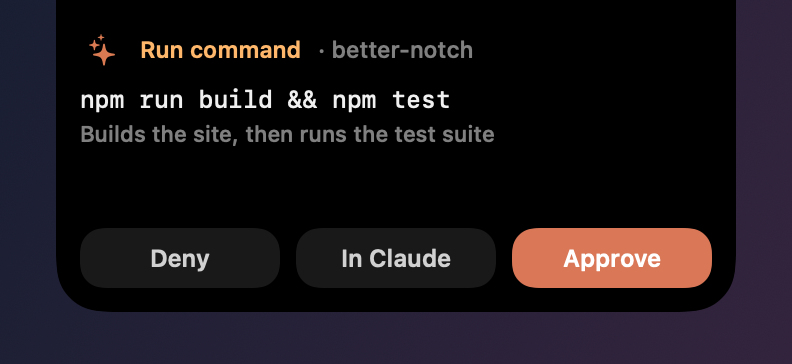
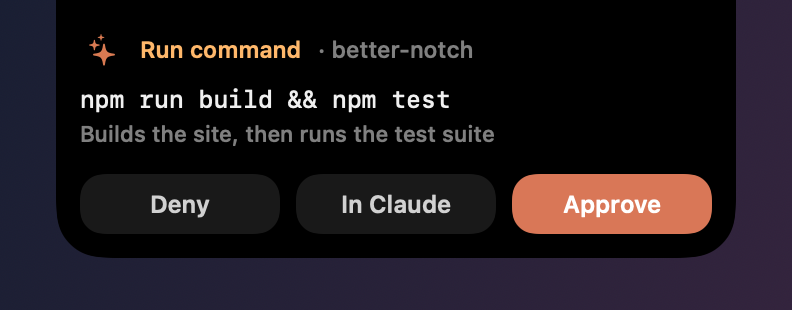
Fit agent alerts to their text, top-align them, and add a layout check
Alerts were centered in the taller island once room was kept below the camera, so
their buttons sat 3 pt from the bottom. scripts/layout-check.sh now renders sample
alerts in the real island and fails on wrong gaps.

diff --git a/Notchly/Debug/LayoutCheck.swift b/Notchly/Debug/LayoutCheck.swift
@@ -1,0 +1,139 @@
+//
+//  LayoutCheck.swift
+//  BetterNotch
+//
+//  Debug builds only: `BetterNotch -layoutCheck <folder>` shows sample agent alerts in the
+//  real island window, saves each as a PNG, measures the gaps around its buttons, writes
+//  report.txt and quits. The README renderer draws views outside the island, so it cannot
+//  catch spacing that only goes wrong inside the real island.
+//
+
+#if DEBUG
+import AppKit
+import SwiftUI
+
+@MainActor
+enum LayoutCheck {
+    static var outputDirectory: URL? {
+        let arguments = ProcessInfo.processInfo.arguments
+        guard let index = arguments.firstIndex(of: "-layoutCheck"), index + 1 < arguments.count else { return nil }
+        return URL(fileURLWithPath: arguments[index + 1], isDirectory: true)
+    }
+
+    static func run(environment: AppEnvironment, window: @escaping () -> NSWindow?, to directory: URL) {
+        try? FileManager.default.createDirectory(at: directory, withIntermediateDirectories: true)
+        Task { @MainActor in
+            try? await Task.sleep(for: .seconds(3))
+            var lines: [String] = []
+            var failed = false
+            for (name, event) in samples() {
+                environment.agentEventManager.debugShow(event)
+                try? await Task.sleep(for: .seconds(2))
+                guard let view = window()?.contentView,
+                      let rep = view.bitmapImageRepForCachingDisplay(in: view.bounds) else {
+                    lines.append("\(name): FAIL no island window")
+                    failed = true
+                    continue
+                }
+                view.cacheDisplay(in: view.bounds, to: rep)
+                try? rep.representation(using: .png, properties: [:])?
+                    .write(to: directory.appendingPathComponent("\(name).png"))
+                let result = measure(rep, scale: CGFloat(rep.pixelsWide) / view.bounds.width)
+                failed = failed || !result.passed
+                lines.append("\(name): \(result.text)")
+                environment.agentEventManager.dismissCurrentEvent()
+                try? await Task.sleep(for: .seconds(1.5))
+            }
+            lines.append(failed ? "RESULT: FAIL" : "RESULT: PASS")
+            try? lines.joined(separator: "\n").appending("\n")
+                .write(to: directory.appendingPathComponent("report.txt"), atomically: true, encoding: .utf8)
+            exit(failed ? 1 : 0)
+        }
+    }
+
+    private static func samples() -> [(String, AgentEvent)] {
+        let now = Date()
+        let open = GlanceButton(title: "Open session", systemImage: "arrow.up.forward.app",
+                                isPrimary: true, action: .openSession(id: "s1", source: "claude"))
+        func approval(detail: String?) -> AgentApprovalRequest {
+            AgentApprovalRequest(
+                id: UUID().uuidString, source: "codex", sessionID: "s1", toolName: "mcp__codebase_memory_mcp__index_repository",
+                toolLabel: "codebase_memory_mcp tool", summary: "index repository", detail: detail,
+                project: "memberships", receivedAt: now, deadline: now.addingTimeInterval(60)
+            )
+        }
+        return [
+            ("finished-one-line", AgentEvent(id: UUID(), source: "codex", kind: .completed, title: "Task completed",
+                                             message: nil, ttl: 30, createdAt: now, detail: "Copyable Markdown review",
+                                             buttons: [open], sessionID: "s1")),
+            ("finished-two-lines", AgentEvent(id: UUID(), source: "claude", kind: .completed, title: "Task completed",
+                                              message: nil, ttl: 30, createdAt: now,
+                                              detail: "Both issues are fixed in build 81, which is now running on this Mac.",
+                                              buttons: [open], sessionID: "s1")),
+            ("question", AgentEvent(id: UUID(), source: "claude", kind: .waiting, title: "Claude asked a question",
+                                    message: nil, ttl: 30, createdAt: now,
+                                    detail: "Should the usage bars refresh every 5 minutes or every 2?",
+                                    buttons: [open], sessionID: "s2")),
+            ("approval", AgentEvent(id: UUID(), source: "codex", kind: .accessRequest, title: "Needs approval",
+                                    message: nil, ttl: 30, createdAt: now, approval: approval(detail: nil))),
+            ("approval-detail", AgentEvent(id: UUID(), source: "codex", kind: .accessRequest, title: "Needs approval",
+                                           message: nil, ttl: 30, createdAt: now,
+                                           approval: approval(detail: "Indexes the memberships app for code search")))
+        ]
+    }
+
+    /// The island is the opaque shape at the top of the transparent window. Its buttons are
+    /// the lowest non-black pixels in it; they should sit `edgeInset` from the bottom edge and
+    /// from both side edges.
+    private static func measure(_ rep: NSBitmapImageRep, scale: CGFloat) -> (passed: Bool, text: String) {
+        func pixel(_ x: Int, _ y: Int) -> (alpha: CGFloat, bright: CGFloat) {
+            guard let color = rep.colorAt(x: x, y: y)?.usingColorSpace(.deviceRGB) else { return (0, 0) }
+            return (color.alphaComponent, max(color.redComponent, color.greenComponent, color.blueComponent))
+        }
+        let centerX = rep.pixelsWide / 2
+        var islandBottom = 0
+        for y in 0..<rep.pixelsHigh where pixel(centerX, y).alpha > 0.5 { islandBottom = y }
+        // Lowest content row: anything clearly brighter than the island's black.
+        var contentBottom = 0
+        var contentTop = Int.max
+        for y in 0..<(islandBottom - 2) {
+            for x in stride(from: 0, to: rep.pixelsWide, by: 2) where pixel(x, y).alpha > 0.5 && pixel(x, y).bright > 0.25 {
+                contentBottom = max(contentBottom, y)
+                contentTop = min(contentTop, y)
+            }
+        }
+        // Mid-button, clear of its rounded corners.
+        let rowY = max(0, contentBottom - Int(IslandMetrics.buttonHeight / 2 * scale))
+        var islandLeft = 0, islandRight = 0, buttonLeft = Int.max, buttonRight = 0
+        for x in 0..<rep.pixelsWide {
+            let p = pixel(x, rowY)
+            if p.alpha > 0.5 {
+                if islandLeft == 0 { islandLeft = x }
+                islandRight = x
+                if p.bright > 0.07 { buttonLeft = min(buttonLeft, x); buttonRight = max(buttonRight, x) }
+            }
+        }
+        // Text-to-button gap: climb out of the buttons, then up to the last text row.
+        func rowHasContent(_ y: Int) -> Bool {
+            stride(from: 0, to: rep.pixelsWide, by: 2).contains { pixel($0, y).alpha > 0.5 && pixel($0, y).bright > 0.25 }
+        }
+        var buttonTop = contentBottom
+        while buttonTop > 0 && rowHasContent(buttonTop - 1) { buttonTop -= 1 }
+        var textBottom = buttonTop - 1
+        while textBottom > 0 && !rowHasContent(textBottom) { textBottom -= 1 }
+        let textGap = CGFloat(buttonTop - textBottom) / scale
+        let bottomGap = CGFloat(islandBottom - contentBottom) / scale
+        let leftGap = CGFloat(buttonLeft - islandLeft) / scale
+        let rightGap = CGFloat(islandRight - buttonRight) / scale
+        let height = CGFloat(islandBottom + 1) / scale
+        let expected = IslandMetrics.edgeInset
+        // Glyphs sit above their line box, so the visible gap runs a few points over the set one.
+        let textGapRange = AgentActivityView.textToButtonsGap...(AgentActivityView.textToButtonsGap + 8)
+        let passed = [bottomGap, leftGap, rightGap].allSatisfy { abs($0 - expected) <= 1.5 }
+            && textGapRange.contains(textGap)
+        let text = String(format: "%@ height %.0f, bottom gap %.1f, sides %.1f / %.1f (want %.0f), text to buttons %.1f",
+                          passed ? "PASS" : "FAIL", height, bottomGap, leftGap, rightGap, expected, textGap)
+        return (passed, text)
+    }
+}
+#endif

diff --git a/Notchly/Views/Island/Agent/AgentActivityView.swift b/Notchly/Views/Island/Agent/AgentActivityView.swift
@@ -25,22 +25,48 @@ struct AgentActivityView: View {
         screenHasNotch ? max(0, closedHeight - headerTop) : 0
     }
 
-    /// Island content height for an event, or nil to use the default preview height.
-    static func contentHeight(for event: AgentEvent?) -> CGFloat? {
+    /// Space between an alert's text and its buttons.
+    static let textToButtonsGap: CGFloat = 14
+
+    /// Island content height for an event at a given island width, or nil to use the
+    /// default preview height. Alerts with buttons fit their text, so a one-line message
+    /// does not leave a gap above the buttons.
+    static func contentHeight(for event: AgentEvent?, width: CGFloat) -> CGFloat? {
         guard let event else { return nil }
+        let textWidth = width - IslandMetrics.edgeInset * 2
+        // Header and buttons: content offset, top padding, header row and the gap below it,
+        // then the buttons and the inset under them.
+        let chrome = contentTopOffset + 4 + 22 + 6 + textToButtonsGap
+            + IslandMetrics.buttonHeight + IslandMetrics.edgeInset
         if let approval = event.approval {
-            return approval.detail == nil ? 140 : 156
+            var text = textHeight(approval.summary, font: .monospacedSystemFont(ofSize: 12, weight: .medium),
+                                  width: textWidth, maxLines: 2)
+            if let detail = approval.detail {
+                text += 3 + textHeight(detail, font: .systemFont(ofSize: 11, weight: .medium), width: textWidth, maxLines: 1)
+            }
+            return (chrome + text).rounded(.up)
         }
         if !event.batteryParts.isEmpty || event.progressKey != nil {
             return 92
         }
-        if event.detail != nil && !event.buttons.isEmpty {
-            return 140
+        if let detail = event.detail, !event.buttons.isEmpty {
+            let text = textHeight(detail, font: .systemFont(ofSize: 13, weight: .semibold), width: textWidth, maxLines: 2)
+            return (chrome + text).rounded(.up)
         }
         if event.detail != nil {
             return 98
         }
         return nil
+    }
+
+    /// Height of text wrapped to a width, capped at a number of lines.
+    private static func textHeight(_ string: String, font: NSFont, width: CGFloat, maxLines: Int) -> CGFloat {
+        let lineHeight = NSLayoutManager().defaultLineHeight(for: font)
+        let bounds = NSAttributedString(string: string, attributes: [.font: font]).boundingRect(
+            with: NSSize(width: width, height: .greatestFiniteMagnitude),
+            options: [.usesLineFragmentOrigin, .usesFontLeading]
+        )
+        return min(max(bounds.height, lineHeight), lineHeight * CGFloat(maxLines)).rounded(.up)
     }
 
     var body: some View {
@@ -221,7 +247,7 @@ private struct AgentApprovalContent: View {
                     .padding(.top, 3)
             }
 
-            Spacer(minLength: 10)
+            Spacer(minLength: 6)
 
             HStack(spacing: 8) {
                 decisionButton("Deny", isPrimary: false, decision: .deny)
@@ -494,7 +520,7 @@ private struct GlanceWithButtons: View {
                 .fixedSize(horizontal: false, vertical: true)
                 .padding(.top, 6)
 
-            Spacer(minLength: 10)
+            Spacer(minLength: 6)
 
             HStack(spacing: 8) {
                 ForEach(event.buttons) { button in

diff --git a/Notchly/App/AppDelegate.swift b/Notchly/App/AppDelegate.swift
@@ -11,7 +11,8 @@ import AppKit
 final class AppDelegate: NSObject, NSApplicationDelegate {
     // The rename migration must run before any manager reads its settings.
     private let environment: AppEnvironment = {
-        if !ProcessInfo.processInfo.arguments.contains("-renderReadmeImages") {
+        let arguments = ProcessInfo.processInfo.arguments
+        if !arguments.contains("-renderReadmeImages") && !arguments.contains("-layoutCheck") {
             LegacyIdentityMigration.runIfNeeded()
         }
         return AppEnvironment()
@@ -101,6 +102,14 @@ final class AppDelegate: NSObject, NSApplicationDelegate {
             }
             self.startupTask = nil
         }
+
+        #if DEBUG
+        if let directory = LayoutCheck.outputDirectory {
+            LayoutCheck.run(environment: environment, window: { [weak self] in
+                self?.overlayController.debugIslandWindow
+            }, to: directory)
+        }
+        #endif
     }
 
     func applicationWillTerminate(_ notification: Notification) {

diff --git a/Notchly/Views/Island/Logic/ContentView+Computed.swift b/Notchly/Views/Island/Logic/ContentView+Computed.swift
@@ -30,7 +30,10 @@ extension ContentView {
             islandWidth: effectiveIslandWidth,
             allowsCompactBaseWidth: musicStartUsesIdleWidth,
             idleWidthOverride: configuredIdleIslandWidth,
-            agentContentHeight: AgentActivityView.contentHeight(for: activeAgentEvent),
+            agentContentHeight: AgentActivityView.contentHeight(
+                for: activeAgentEvent,
+                width: IslandLayout.baseWidth(islandWidth: effectiveIslandWidth, allowsCompact: musicStartUsesIdleWidth)
+            ),
             agentTopClearance: agentTopClearance,
             openedExtraHeight: showsExtrasPanel ? extrasPanelHeight + ExtrasPanelView.gapBelowTopSection : 0,
             wingsTucked: tucksWings,

diff --git a/Notchly/Debug/ReadmeImageRenderer.swift b/Notchly/Debug/ReadmeImageRenderer.swift
@@ -245,7 +245,7 @@ private struct NoticeIsland: View {
     let event: AgentEvent
 
     var body: some View {
-        let size = CGSize(width: 340, height: AgentActivityView.contentHeight(for: event) ?? 68)
+        let size = CGSize(width: 340, height: AgentActivityView.contentHeight(for: event, width: 340) ?? 68)
         ZStack(alignment: .top) {
             UnevenRoundedRectangle(bottomLeadingRadius: IslandMetrics.noticeRadius, bottomTrailingRadius: IslandMetrics.noticeRadius)
                 .fill(Color.black)

diff --git a/Notchly/Views/Island/Logic/ContentView+Agent.swift b/Notchly/Views/Island/Logic/ContentView+Agent.swift
@@ -71,7 +71,7 @@ extension ContentView {
                         )
                     }
                 }
-                .frame(width: layout.agentPreviewSize.width + layout.cornerRadius * 2, height: layout.agentPreviewSize.height)
+                .frame(width: layout.agentPreviewSize.width + layout.cornerRadius * 2, height: layout.agentPreviewSize.height, alignment: .top)
             }
             .overlay {
                 if event?.approval == nil && (event?.buttons.isEmpty ?? true) {

diff --git a/Notchly/Views/Island/Logic/ContentView+Music.swift b/Notchly/Views/Island/Logic/ContentView+Music.swift
@@ -50,7 +50,7 @@ extension ContentView {
                             )
                         }
                     }
-                    .frame(width: layout.agentPreviewSize.width + layout.cornerRadius * 2, height: layout.agentPreviewSize.height)
+                    .frame(width: layout.agentPreviewSize.width + layout.cornerRadius * 2, height: layout.agentPreviewSize.height, alignment: .top)
                 }
             } else {
                 IslandContainerView(

diff --git a/Notchly/Models/IslandLayout.swift b/Notchly/Models/IslandLayout.swift
@@ -35,7 +35,11 @@ struct IslandLayout {
     let spacing: CGFloat = 10
 
     var baseWidth: CGFloat {
-        min(max(islandWidth, allowsCompactBaseWidth ? 160 : 280), 360)
+        Self.baseWidth(islandWidth: islandWidth, allowsCompact: allowsCompactBaseWidth)
+    }
+
+    static func baseWidth(islandWidth: CGFloat, allowsCompact: Bool) -> CGFloat {
+        min(max(islandWidth, allowsCompact ? 160 : 280), 360)
     }
 
     var closedSize: CGSize {

diff --git a/Notchly/Managers/AgentEventManager.swift b/Notchly/Managers/AgentEventManager.swift
@@ -658,6 +658,11 @@ final class AgentEventManager: ObservableObject {
         }
     }
 
+    #if DEBUG
+    /// Shows a sample alert for the layout check.
+    func debugShow(_ event: AgentEvent) { showEvent(event, playSound: false) }
+    #endif
+
     private func showEvent(_ event: AgentEvent, playSound: Bool = true) {
         if event.kind == .clear {
             // Activity from the agent makes its held "waiting" or "needs you" alert stale.

diff --git a/Notchly/App/SkyLightOverlayController.swift b/Notchly/App/SkyLightOverlayController.swift
@@ -127,6 +127,10 @@ final class SkyLightOverlayController {
         self.environment = environment
     }
 
+    #if DEBUG
+    var debugIslandWindow: NSWindow? { islandWindowController?.window }
+    #endif
+
     func show() {
         installScreenObserver()
         installSettingsObserver()

diff --git a/README.md b/README.md
@@ -137,6 +137,8 @@ codesign --force --options runtime --timestamp --sign "Developer ID Application:
   --preserve-metadata=entitlements,requirements,flags,runtime BetterNotch.app
 ```
 
+To check alert spacing after a layout change, run `scripts/layout-check.sh`. It shows sample alerts in the real island, saves a picture of each, and fails if the buttons are not 12 pt from the island's edges or the text sits too far above them.
+
 The README images are drawn by the app's own views with sample data. In a Debug build, run `BetterNotch.app/Contents/MacOS/BetterNotch -renderReadmeImages <folder>` to regenerate the tab and alert images.
 
 ## Credits
